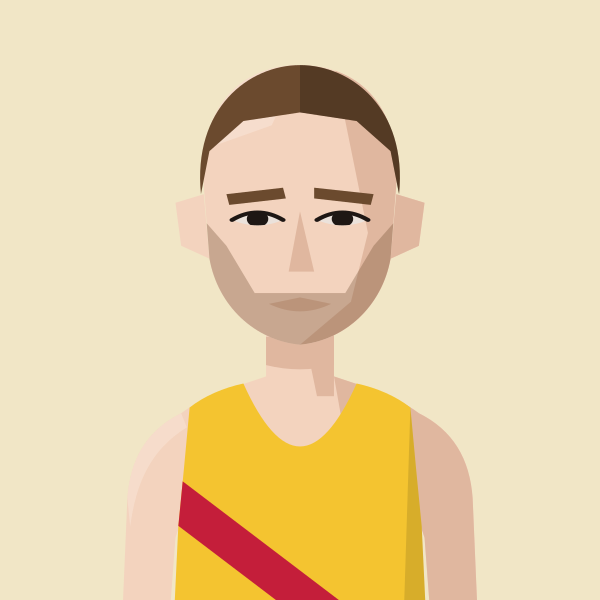
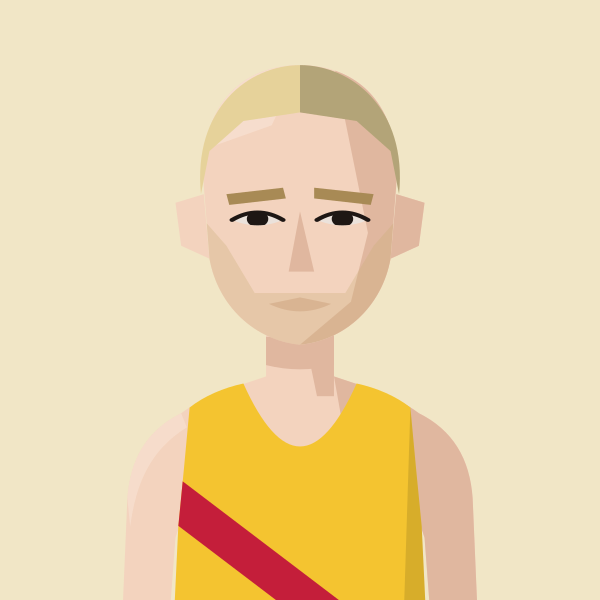
Portrait: Ed Mallett redrawn with very blonde hair
Claude-Session: https://claude.ai/code/session_01DgcEr9hQHGiZw2mBbM5jbH

diff --git a/files/index.html b/files/index.html
@@ -672,7 +672,7 @@ return m;})();
 const portraitFile=(name,club)=>{const k=normalizeNameForCompare(name||'').replace(/\s*\(([^)]*)\)$/,(m,c)=>CLUBS[c.toUpperCase()]?'':m);const a=PORTRAITS[k];if(a&&a.club===club)return a.file;const b=PORTRAITS[k+'@'+club];return b?b.file:null;};
 // Athlete header figure: superstar portrait if we have one, else a grey runner in the club vest, else the plain vest icon
 // Changes whenever any portrait changes (set by tools/build_og.py), so browsers fetch fresh images instead of old cached ones
-const PORTRAIT_V='1dc0c30f';const PORTRAIT_WOMEN='abbey-brooke,abbie-bulbulian,aimee-hargreaves,aisling-ahern,alex-brown,alex-gandee,alex-marginean,alex-miller,alexa-parker,alexandra-barbour,alice-braham,alice-bridger-morales,alice-crane,alice-martin,alice-reed,alice-smith,alison-purnell,amy-clements,anika-schwarze-chintapatla,anna-garnier,anna-garnier-hw,anna-sharp,anne-hegvold,annmarie-seymour,ava-mcandie,becky-briggs,bethan-goddard,bethanie-murray,bethany-brown,betsy-griffiths,billie-mcclosky,camilla-barden,caoimhe-nic-fhogartaigh,carolyne-baxter,catherine-bryson,catherine-eastham,catherine-kandie,cathy-ansell,charlotte-griffiths,chloe-beckett,chloe-tighe,chrissie-wellington,claire-grima,clara-pettit,clare-elms,clare-pauzers,dillan-quinn,dorchie-cockerell,eilidh-hide,elinor-skinner,elizabeth-apsley,elizabeth-stavreski,ella-fennelly,ella-king-powrie,ella-may-hards,ella-newton,ellie-freeden,eloise-bull,emilie-arnoux,emily-barrett,emily-bradley,emily-lowery,emily-robbins,emma-gordon,emma-howsham,emma-lord,emma-rowland,estle-viljoen,evie-warren,felicity-cole,felicity-harrison,felicity-hayward,fi-maddocks,fiona-de-mauny,florence-wiggins,gabby-collison,gabriel-reynolds,gemma-newport,georgia-curry,georgie-bruinvels,georgie-fenn,georgie-furze,georgie-grgec,gina-galbraith,grace-leyland,grace-richardson,hannah-edwards,hannah-english,heather-statham,heather-statham-cc,helena-corbin,helena-keenan,holly-nixon,holly-pan,imogen-mackie,imogen-wolsey,iona-cousland,isabel-bradley,isabel-brinsden,isabelle-pickett,isobel-hodder,jennifer-nandi,jess-reed,jess-saunders,jess-winfield,jessica-davies,jessica-lowe,jodie-favell,josephine-rhodes,julia-bleasdale,julia-wedmore,juliet-hodder,jurgita-levertaviciute,justine-lynch,karen-fenner,karen-xiang,kate-axford,katie-ellen-french,katie-good,katie-snowden,katy-hedgethorne,kitty-shepherd-cross,kristina-popadich,lara-bromilow,lara-mangan,laura-goodson,lauren-major,lea-adamson,lisa-bailey,lisa-thomas,lisa-thomas-hw,lizzie-goldie-scot,louise-cooper,lucy-jones,lucy-macalister,lucy-peters,lydia-gallyer-barnett,maddie-mastrolonardo,maddy-whitman,maeve-kenny,margaret-coogan,martina-conner,mary-james,mary-setyabule,matilde-lomba,megan-gildea,mhairi-hall,mimi-corden-lloyd,molly-oconnor,molly-smith,monika-gajek,naomi-lenane,natalie-beadle,natalie-seymour,natasha-lodge,niamh-thompson,nicola-douglas,nikki-sturzaker,olivia-papaioannou,olivia-stillman,orna-mcginley,pamela-mchutchon,patricia-walker,patrizia-gnoato,penny-oliver,rachel-brown,rebecca-barrow,rebekah-edgar,ruby-carter,ruby-whyte-wilding,ruby-woolfe,sam-whiting,samantha-munday,sarah-astin,sarah-dewhirst,sarah-grover,sarah-hanley,sarah-holt,sarah-murphy,sarah-palmer,sarah-palmer-ran,sarah-riceman,saron-haileselase,serena-carter,sophie-cowper,sophie-harris,sophie-hicks,sophie-tooley,stacey-ward,steph-hewitt,steph-mccall,steph-mccall-cc,steph-mccall-slh,steph-mitchell,suzanne-swaine,suzie-harvey,suzy-whatmough,teresa-murphy,tilly-heaton,tilly-heaton-bel,vicky-clarke,victoria-barthelmess,victoria-buck,vikki-filsell,zoe-macdonald';const PORTRAIT_MEN='aaron-wilson,abdulla-elsadig,adam-leane,adrian-major,adrien-royer,alan-black,alan-mead,alex-brecker,alex-bruce-littlewood,alex-gutteridge,alex-harris,alex-howard,alex-janiaud,alex-lee,alex-lennon,alex-mills,alex-milne,alex-robinson,alex-yee,amittai-ben-israel,andrew-cumine,andrew-green,andrew-penney,andrew-warburton,andrius-jaksevicius,andy-coley-maud,andy-coley-maud-cc,andy-fyfe,andy-north,andy-paton,andy-weir,angus-lamb,anisse-ismaili,arlo-ludewick,arne-dumez,arthur-peel,ashley-goncalves,barnaby-day,barry-collins,barry-sawyer,ben-clarke,ben-harding,ben-hurley,ben-ireland,ben-paviour,ben-pearce,ben-racle,ben-revill,ben-reynolds,ben-scott,ben-toomer,benedict-whitby,benjamin-hilson,bernie-ford,bill-kerr,bill-weller,bill-weller-wal,bob-harrison,bob-holt,bob-lunnon,bob-rayman,bob-smith,bradley-courtney-pinn,brandon-dewar,brian-gorman,brian-wilder,caleb-hathaway,callum-stewart,cameron-dockerill,cameron-reilly,carl-delaney,charles-herrington,charlie-dabbs,charlie-dickinson,charlie-eastaugh,charlie-manning,charlie-pickett,charlie-rogers,charlie-sandison,charlie-walker,charlie-wyllie,chris-busaileh,chris-busaileh-hhh,chris-greenwood,chris-keavey,chris-moss,chris-steer,chris-threadgold,chris-warren,christian-lee,christopher-parker,clive-gilby,clive-shippen,colin-high,colin-pearson,conall-mcnally,conall-whelan,craig-ruddy,dame-dibaba,dan-cliffe,dan-pettitt,daniel-shaw,daniel-wolff,dave-beard,dave-beaver,dave-glassborow,dave-holt,dave-taylor,david-anderson,david-bowers,david-grima,david-north,david-ogden,david-symons,david-walsh,david-williams,deron-fagan,dick-piotrowski,dimos-evangelidis,dominic-kiralyfi,don-anderson,don-faircloth,don-maclean,doug-maughan,dylan-evans,dylan-mitchard,ed-brewer,ed-catmur,ed-gibson,ed-mallett,eddie-herridge,eddie-jodrell,eddie-rolls,edward-chuck,eoin-brady,eoin-molloy,ethan-mccolgan,falilou-kebe,findlay-dyer,finn-johnson,fintan-pearce,frank-tickner,frank-ward,fred-paget,fred-slemeck,freddie-hessian,garret-lee,gary-ribbons,gary-ribbons-ee,gary-staines,gavin-eccles,geoff-biscoe,geoff-jerwood,geoff-north,george-cotton,george-gathercole,george-jackson,george-loxton,george-mallett,george-ogden,gerry-adams,gerry-north,gordon-pearce,graham-macky,harrison-hayman,harry-guttridge,hector-revill,henry-hart,henry-silverstein,hugo-hewitt,ian-acreman,ian-crowe-wright,ian-ellwood,ian-harkness,indy-barnes,isaac-lutaya,isaac-parker,jack-brotchie,jack-dickson,jack-dormer,jack-hampshire,jack-harrison,jack-hobden,jack-kavanagh,jack-millar,jack-ramm,jack-woods,jacob-brockmann,james-bartram,james-blackwood,james-estall,james-ewing,james-fox,james-hancock,james-harvey,james-hoad,james-kelly,james-mcmullan,james-murray,james-nutt,james-preston,james-roberts,james-stockings,james-wootton,jamie-crowe,jamie-parkinson,jared-martin,jean-paul-wright,jeff-cunningham,jeremy-dempsey,jermaine-mays,jerry-watson,jim-allchin,jim-rimmer,joe-english,joe-hartley,john-baker,john-bicourt,john-bromley,john-davies,john-dear,john-foss,john-foxall,john-gilbert,john-gladwin,john-hutchins,john-kendall,john-kimaiyo,john-lee,john-lethbridge,john-mather,john-moore,john-roberts,john-sanderson,john-stow,john-sullivan,john-thresher,jon-hobbs,jon-pepper,jon-pepper-slh,jon-phillips,jon-solly,jonathan-cocker,jonathan-collier,jonathan-cornish,jonathan-tipper,jonathon-blackledge,jonny-neville,jonny-scott,jordan-weaver,josh-mitchell,josh-snow,josh-trigwell,junior-galley,justin-chaston,justin-reid,kassa-tadesse,keith-newton,kevin-nash,kevin-quinn,kevin-sturman,kieran-barnes,knut-hegvold,knut-hegvold-bel,larry-ryan,lee-lintern,lewis-lloyd,liam-burthem,lionel-mann,lloyd-kempson,luke-caldwell,mack-downie,malachi-byansi,marcello-bizio,marco-mazzotta,mark-anderson,mark-miles,mark-sinclair,mark-tennyson,mark-waller,martin-dent,martin-lake,martin-lewington,martin-shore,mathew-speed,matt-chaston,matt-jones,matt-wood,matthew-edgar,matthew-houchell,matthew-varley,max-bloor,max-heyden,max-milarvie,max-nicholls,michael-baker,michael-mccarthy,mick-woods,mike-beevor,mike-boyle,mike-cummings,mike-farmery,mike-fuller,mike-hayes,mike-kortenray,mike-nouch,mohammed-ismail,monty-hudson,morgan-roberts,nathan-visick,neil-chisholm,neil-phillips,neil-speaight,neil-wilson,nic-lukies,nick-acfield,nick-altmann,nick-bester,nick-bester-hhh,nick-buckle,nick-bundle,nick-goolab,nick-lightfoot,nick-morris,nick-torry,noah-fernandez,norman-stairs,oli-carrington,oliver-carrington,oliver-fox,oliver-reynolds,oliver-young,ollie-foote,ollie-garrod,olly-buck,owen-hind,paddy-roddy,pancho-panchev,paskar-owor,pat-newell,patrick-mcdougall,paul-calver,paul-cheetham,paul-freary,paul-magner,paul-pollock,pete-carton,pete-gardner,peter-clarke,peter-giles,peter-giles-thh,peter-lighting,phil-carstairs,phil-sanders,phil-sesemann,phil-swinburn,phil-wicks,phil-woodford-smith,ralph-street,ranjit-bhatia,ray-foley,reece-edwards,rhys-boorman,rian-mccawley,richard-ashe,richard-henderson,richard-langley,richard-mcdowell,richard-ollington,richard-partridge,richard-sun,richard-ward,rob-armstrong,rob-kelly,rob-tuer,robert-elphick,robert-laing,robert-norville,robert-sesemann,robin-boon,robin-hudson,roger-alsop,roger-alsop-bel,ron-clark,ron-linstead,ronan-tanguy,rory-mcmahon,rory-orsborn,ross-christie,rowan-board,russell-dessaix-chin,ryan-hickey,ryan-mccallister,sam-bramwell,sam-charlton,sam-gebreselassie,sam-peters,sam-sommerville,sam-tyas,samuel-dames,sean-cordon,sebastian-anthony,simon-baines,simon-coombes,simon-coppard,simon-holmes,simon-rayner,simon-rayner-hw,simon-wade,simon-wade-hhh,simon-waterhouse,simon-williams,simon-wurr,sonny-nicoll,spencer-barden,stephen-mcleod,stephen-sharp,steve-gardner,steve-jones,steve-smythe,steve-smythe-hhh,stuart-major,stuart-major-thh,stuart-mccallum,stuart-paton,terry-booth,thomas-dugre,thomas-gandee,thomas-gardner,thomas-renshaw,tim-eglen,tim-watson,toby-cooke,toby-fletcher,tom-austin,tom-cheetham,tom-conlon,tom-davies,tom-gifford,tom-jervis,tom-lole,tom-south,tom-thornley,tommy-taylor,tony-binda,tony-fairclough,tony-harran,trevor-hart,valentin-rigori,vic-maughan,will-cockerell,will-lewis,will-marshall,will-scott,will-stockley,william-gardner,yacin-yusuf,zach-nolan';
+const PORTRAIT_V='17aa1edd';const PORTRAIT_WOMEN='abbey-brooke,abbie-bulbulian,aimee-hargreaves,aisling-ahern,alex-brown,alex-gandee,alex-marginean,alex-miller,alexa-parker,alexandra-barbour,alice-braham,alice-bridger-morales,alice-crane,alice-martin,alice-reed,alice-smith,alison-purnell,amy-clements,anika-schwarze-chintapatla,anna-garnier,anna-garnier-hw,anna-sharp,anne-hegvold,annmarie-seymour,ava-mcandie,becky-briggs,bethan-goddard,bethanie-murray,bethany-brown,betsy-griffiths,billie-mcclosky,camilla-barden,caoimhe-nic-fhogartaigh,carolyne-baxter,catherine-bryson,catherine-eastham,catherine-kandie,cathy-ansell,charlotte-griffiths,chloe-beckett,chloe-tighe,chrissie-wellington,claire-grima,clara-pettit,clare-elms,clare-pauzers,dillan-quinn,dorchie-cockerell,eilidh-hide,elinor-skinner,elizabeth-apsley,elizabeth-stavreski,ella-fennelly,ella-king-powrie,ella-may-hards,ella-newton,ellie-freeden,eloise-bull,emilie-arnoux,emily-barrett,emily-bradley,emily-lowery,emily-robbins,emma-gordon,emma-howsham,emma-lord,emma-rowland,estle-viljoen,evie-warren,felicity-cole,felicity-harrison,felicity-hayward,fi-maddocks,fiona-de-mauny,florence-wiggins,gabby-collison,gabriel-reynolds,gemma-newport,georgia-curry,georgie-bruinvels,georgie-fenn,georgie-furze,georgie-grgec,gina-galbraith,grace-leyland,grace-richardson,hannah-edwards,hannah-english,heather-statham,heather-statham-cc,helena-corbin,helena-keenan,holly-nixon,holly-pan,imogen-mackie,imogen-wolsey,iona-cousland,isabel-bradley,isabel-brinsden,isabelle-pickett,isobel-hodder,jennifer-nandi,jess-reed,jess-saunders,jess-winfield,jessica-davies,jessica-lowe,jodie-favell,josephine-rhodes,julia-bleasdale,julia-wedmore,juliet-hodder,jurgita-levertaviciute,justine-lynch,karen-fenner,karen-xiang,kate-axford,katie-ellen-french,katie-good,katie-snowden,katy-hedgethorne,kitty-shepherd-cross,kristina-popadich,lara-bromilow,lara-mangan,laura-goodson,lauren-major,lea-adamson,lisa-bailey,lisa-thomas,lisa-thomas-hw,lizzie-goldie-scot,louise-cooper,lucy-jones,lucy-macalister,lucy-peters,lydia-gallyer-barnett,maddie-mastrolonardo,maddy-whitman,maeve-kenny,margaret-coogan,martina-conner,mary-james,mary-setyabule,matilde-lomba,megan-gildea,mhairi-hall,mimi-corden-lloyd,molly-oconnor,molly-smith,monika-gajek,naomi-lenane,natalie-beadle,natalie-seymour,natasha-lodge,niamh-thompson,nicola-douglas,nikki-sturzaker,olivia-papaioannou,olivia-stillman,orna-mcginley,pamela-mchutchon,patricia-walker,patrizia-gnoato,penny-oliver,rachel-brown,rebecca-barrow,rebekah-edgar,ruby-carter,ruby-whyte-wilding,ruby-woolfe,sam-whiting,samantha-munday,sarah-astin,sarah-dewhirst,sarah-grover,sarah-hanley,sarah-holt,sarah-murphy,sarah-palmer,sarah-palmer-ran,sarah-riceman,saron-haileselase,serena-carter,sophie-cowper,sophie-harris,sophie-hicks,sophie-tooley,stacey-ward,steph-hewitt,steph-mccall,steph-mccall-cc,steph-mccall-slh,steph-mitchell,suzanne-swaine,suzie-harvey,suzy-whatmough,teresa-murphy,tilly-heaton,tilly-heaton-bel,vicky-clarke,victoria-barthelmess,victoria-buck,vikki-filsell,zoe-macdonald';const PORTRAIT_MEN='aaron-wilson,abdulla-elsadig,adam-leane,adrian-major,adrien-royer,alan-black,alan-mead,alex-brecker,alex-bruce-littlewood,alex-gutteridge,alex-harris,alex-howard,alex-janiaud,alex-lee,alex-lennon,alex-mills,alex-milne,alex-robinson,alex-yee,amittai-ben-israel,andrew-cumine,andrew-green,andrew-penney,andrew-warburton,andrius-jaksevicius,andy-coley-maud,andy-coley-maud-cc,andy-fyfe,andy-north,andy-paton,andy-weir,angus-lamb,anisse-ismaili,arlo-ludewick,arne-dumez,arthur-peel,ashley-goncalves,barnaby-day,barry-collins,barry-sawyer,ben-clarke,ben-harding,ben-hurley,ben-ireland,ben-paviour,ben-pearce,ben-racle,ben-revill,ben-reynolds,ben-scott,ben-toomer,benedict-whitby,benjamin-hilson,bernie-ford,bill-kerr,bill-weller,bill-weller-wal,bob-harrison,bob-holt,bob-lunnon,bob-rayman,bob-smith,bradley-courtney-pinn,brandon-dewar,brian-gorman,brian-wilder,caleb-hathaway,callum-stewart,cameron-dockerill,cameron-reilly,carl-delaney,charles-herrington,charlie-dabbs,charlie-dickinson,charlie-eastaugh,charlie-manning,charlie-pickett,charlie-rogers,charlie-sandison,charlie-walker,charlie-wyllie,chris-busaileh,chris-busaileh-hhh,chris-greenwood,chris-keavey,chris-moss,chris-steer,chris-threadgold,chris-warren,christian-lee,christopher-parker,clive-gilby,clive-shippen,colin-high,colin-pearson,conall-mcnally,conall-whelan,craig-ruddy,dame-dibaba,dan-cliffe,dan-pettitt,daniel-shaw,daniel-wolff,dave-beard,dave-beaver,dave-glassborow,dave-holt,dave-taylor,david-anderson,david-bowers,david-grima,david-north,david-ogden,david-symons,david-walsh,david-williams,deron-fagan,dick-piotrowski,dimos-evangelidis,dominic-kiralyfi,don-anderson,don-faircloth,don-maclean,doug-maughan,dylan-evans,dylan-mitchard,ed-brewer,ed-catmur,ed-gibson,ed-mallett,eddie-herridge,eddie-jodrell,eddie-rolls,edward-chuck,eoin-brady,eoin-molloy,ethan-mccolgan,falilou-kebe,findlay-dyer,finn-johnson,fintan-pearce,frank-tickner,frank-ward,fred-paget,fred-slemeck,freddie-hessian,garret-lee,gary-ribbons,gary-ribbons-ee,gary-staines,gavin-eccles,geoff-biscoe,geoff-jerwood,geoff-north,george-cotton,george-gathercole,george-jackson,george-loxton,george-mallett,george-ogden,gerry-adams,gerry-north,gordon-pearce,graham-macky,harrison-hayman,harry-guttridge,hector-revill,henry-hart,henry-silverstein,hugo-hewitt,ian-acreman,ian-crowe-wright,ian-ellwood,ian-harkness,indy-barnes,isaac-lutaya,isaac-parker,jack-brotchie,jack-dickson,jack-dormer,jack-hampshire,jack-harrison,jack-hobden,jack-kavanagh,jack-millar,jack-ramm,jack-woods,jacob-brockmann,james-bartram,james-blackwood,james-estall,james-ewing,james-fox,james-hancock,james-harvey,james-hoad,james-kelly,james-mcmullan,james-murray,james-nutt,james-preston,james-roberts,james-stockings,james-wootton,jamie-crowe,jamie-parkinson,jared-martin,jean-paul-wright,jeff-cunningham,jeremy-dempsey,jermaine-mays,jerry-watson,jim-allchin,jim-rimmer,joe-english,joe-hartley,john-baker,john-bicourt,john-bromley,john-davies,john-dear,john-foss,john-foxall,john-gilbert,john-gladwin,john-hutchins,john-kendall,john-kimaiyo,john-lee,john-lethbridge,john-mather,john-moore,john-roberts,john-sanderson,john-stow,john-sullivan,john-thresher,jon-hobbs,jon-pepper,jon-pepper-slh,jon-phillips,jon-solly,jonathan-cocker,jonathan-collier,jonathan-cornish,jonathan-tipper,jonathon-blackledge,jonny-neville,jonny-scott,jordan-weaver,josh-mitchell,josh-snow,josh-trigwell,junior-galley,justin-chaston,justin-reid,kassa-tadesse,keith-newton,kevin-nash,kevin-quinn,kevin-sturman,kieran-barnes,knut-hegvold,knut-hegvold-bel,larry-ryan,lee-lintern,lewis-lloyd,liam-burthem,lionel-mann,lloyd-kempson,luke-caldwell,mack-downie,malachi-byansi,marcello-bizio,marco-mazzotta,mark-anderson,mark-miles,mark-sinclair,mark-tennyson,mark-waller,martin-dent,martin-lake,martin-lewington,martin-shore,mathew-speed,matt-chaston,matt-jones,matt-wood,matthew-edgar,matthew-houchell,matthew-varley,max-bloor,max-heyden,max-milarvie,max-nicholls,michael-baker,michael-mccarthy,mick-woods,mike-beevor,mike-boyle,mike-cummings,mike-farmery,mike-fuller,mike-hayes,mike-kortenray,mike-nouch,mohammed-ismail,monty-hudson,morgan-roberts,nathan-visick,neil-chisholm,neil-phillips,neil-speaight,neil-wilson,nic-lukies,nick-acfield,nick-altmann,nick-bester,nick-bester-hhh,nick-buckle,nick-bundle,nick-goolab,nick-lightfoot,nick-morris,nick-torry,noah-fernandez,norman-stairs,oli-carrington,oliver-carrington,oliver-fox,oliver-reynolds,oliver-young,ollie-foote,ollie-garrod,olly-buck,owen-hind,paddy-roddy,pancho-panchev,paskar-owor,pat-newell,patrick-mcdougall,paul-calver,paul-cheetham,paul-freary,paul-magner,paul-pollock,pete-carton,pete-gardner,peter-clarke,peter-giles,peter-giles-thh,peter-lighting,phil-carstairs,phil-sanders,phil-sesemann,phil-swinburn,phil-wicks,phil-woodford-smith,ralph-street,ranjit-bhatia,ray-foley,reece-edwards,rhys-boorman,rian-mccawley,richard-ashe,richard-henderson,richard-langley,richard-mcdowell,richard-ollington,richard-partridge,richard-sun,richard-ward,rob-armstrong,rob-kelly,rob-tuer,robert-elphick,robert-laing,robert-norville,robert-sesemann,robin-boon,robin-hudson,roger-alsop,roger-alsop-bel,ron-clark,ron-linstead,ronan-tanguy,rory-mcmahon,rory-orsborn,ross-christie,rowan-board,russell-dessaix-chin,ryan-hickey,ryan-mccallister,sam-bramwell,sam-charlton,sam-gebreselassie,sam-peters,sam-sommerville,sam-tyas,samuel-dames,sean-cordon,sebastian-anthony,simon-baines,simon-coombes,simon-coppard,simon-holmes,simon-rayner,simon-rayner-hw,simon-wade,simon-wade-hhh,simon-waterhouse,simon-williams,simon-wurr,sonny-nicoll,spencer-barden,stephen-mcleod,stephen-sharp,steve-gardner,steve-jones,steve-smythe,steve-smythe-hhh,stuart-major,stuart-major-thh,stuart-mccallum,stuart-paton,terry-booth,thomas-dugre,thomas-gandee,thomas-gardner,thomas-renshaw,tim-eglen,tim-watson,toby-cooke,toby-fletcher,tom-austin,tom-cheetham,tom-conlon,tom-davies,tom-gifford,tom-jervis,tom-lole,tom-south,tom-thornley,tommy-taylor,tony-binda,tony-fairclough,tony-harran,trevor-hart,valentin-rigori,vic-maughan,will-cockerell,will-lewis,will-marshall,will-scott,will-stockley,william-gardner,yacin-yusuf,zach-nolan';
 const AthletePortrait=({name,club,w,fill,onClick})=>{const[failed,setFailed]=useState(false);const file=portraitFile(name,club);const src=file?`/portraits/athletes/${file}.svg?v=${PORTRAIT_V}`:PORTRAIT_CLUBS.has(club)?`/portraits/clubs/${club.replace(/\//g,'').replace(/&/g,'and')}.svg?v=${PORTRAIT_V}`:null;if(!src||failed)return<div onClick={onClick} className={onClick?'cursor-pointer':''}><ClubShield club={club} size={w}/></div>;const h=Math.round(w*148/126),ih=Math.round(w*1.4);if(fill)return<div onClick={onClick} className="cursor-pointer" style={{alignSelf:'stretch',minHeight:h,aspectRatio:'126 / 148',flexShrink:0,position:'relative',borderRadius:4,overflow:'hidden'}}><img src={src} alt={file?`Portrait of ${name.replace(/\s*\([^)]*\)$/,'')}`:`Runner in ${CLUBS[club]?.name||club} vest`} style={{position:'absolute',top:0,left:0,display:'block',width:'100%',height:'auto'}} onError={()=>setFailed(true)}/></div>;return<div style={{width:w,height:h,borderRadius:4,overflow:'hidden',flexShrink:0}}><img src={src} alt={file?`Portrait of ${name.replace(/\s*\([^)]*\)$/,'')}`:`Runner in ${CLUBS[club]?.name||club} vest`} width={w} height={ih} style={{display:'block',width:w,height:ih}} onError={()=>setFailed(true)}/></div>;};
 const getClubVestSvg=(club)=>{
   const p="M3 0 L6 0 Q7 4 10 5 Q13 4 14 0 L17 0 L17 20 L3 20 Z";

diff --git a/tools/gen_portraits.py b/tools/gen_portraits.py
@@ -1279,6 +1279,9 @@ save("heather-statham-cc", figure("C/C", skin=1, hair="ponytail", hair_colour="l
 save("steph-mccall-cc", figure("C/C", skin=1, hair="ponytail", hair_colour="light brown"))
 save("steph-mccall-slh", figure("SLH", skin=1, hair="ponytail", hair_colour="light brown"))
 
+# Ed Mallett redraw (Oct 2026): Steve says very blonde hair
+save("mallett", figure("H/W", skin=1, hair="crop", hair_colour="#E6D29A", brow_colour="#A88A55", facial="stubble", facial_colour="#C9AE78"))
+
 # ---- Site export -------------------------------------------------------------
 # Every live portrait, written to site/<slug>.svg under the exact file name the
 # site uses (files/portraits/athletes/). Most portraits are saved under their
